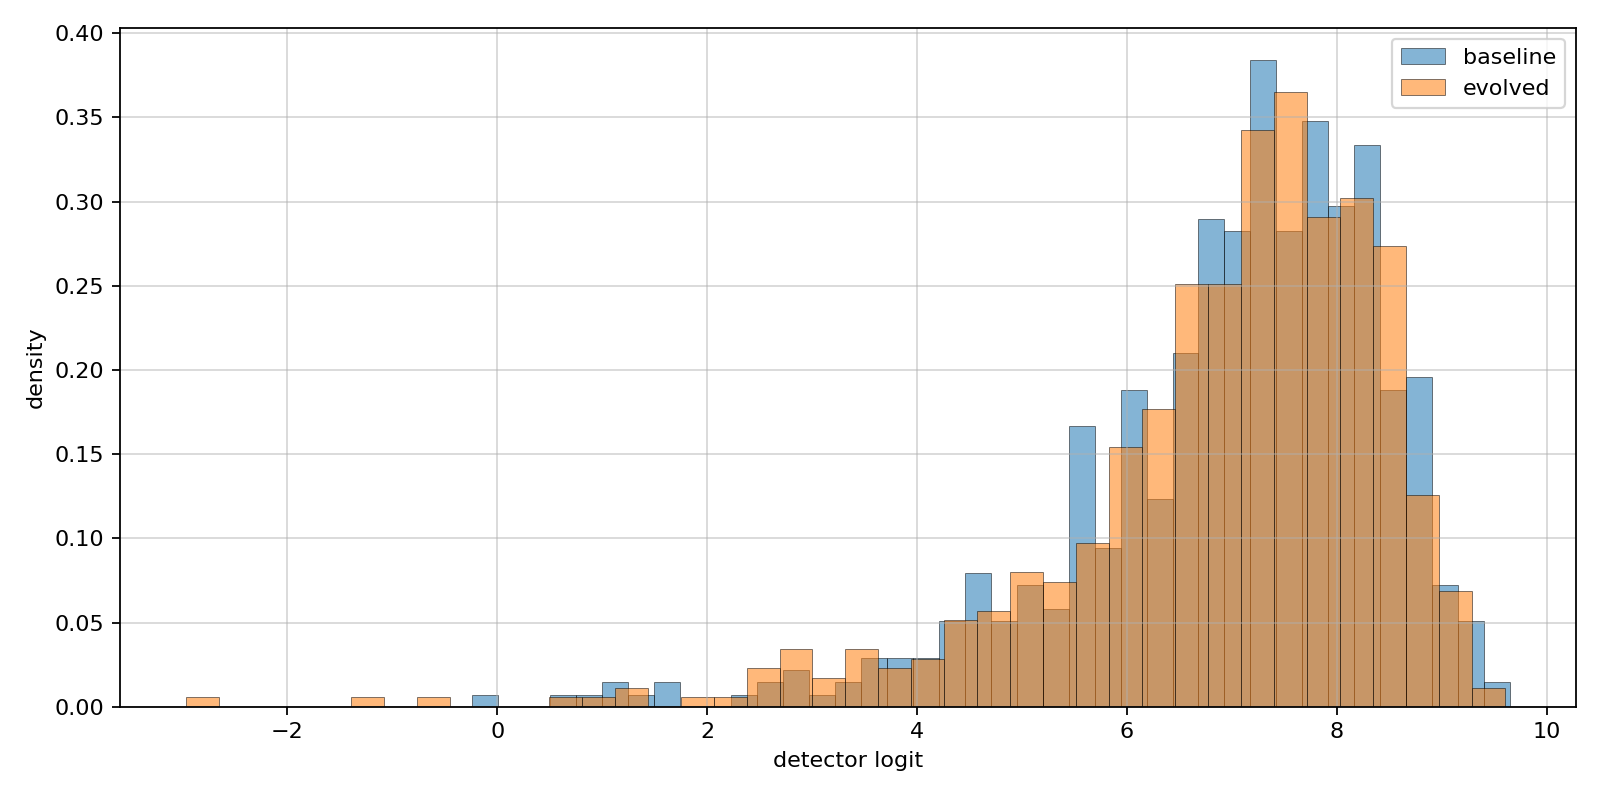
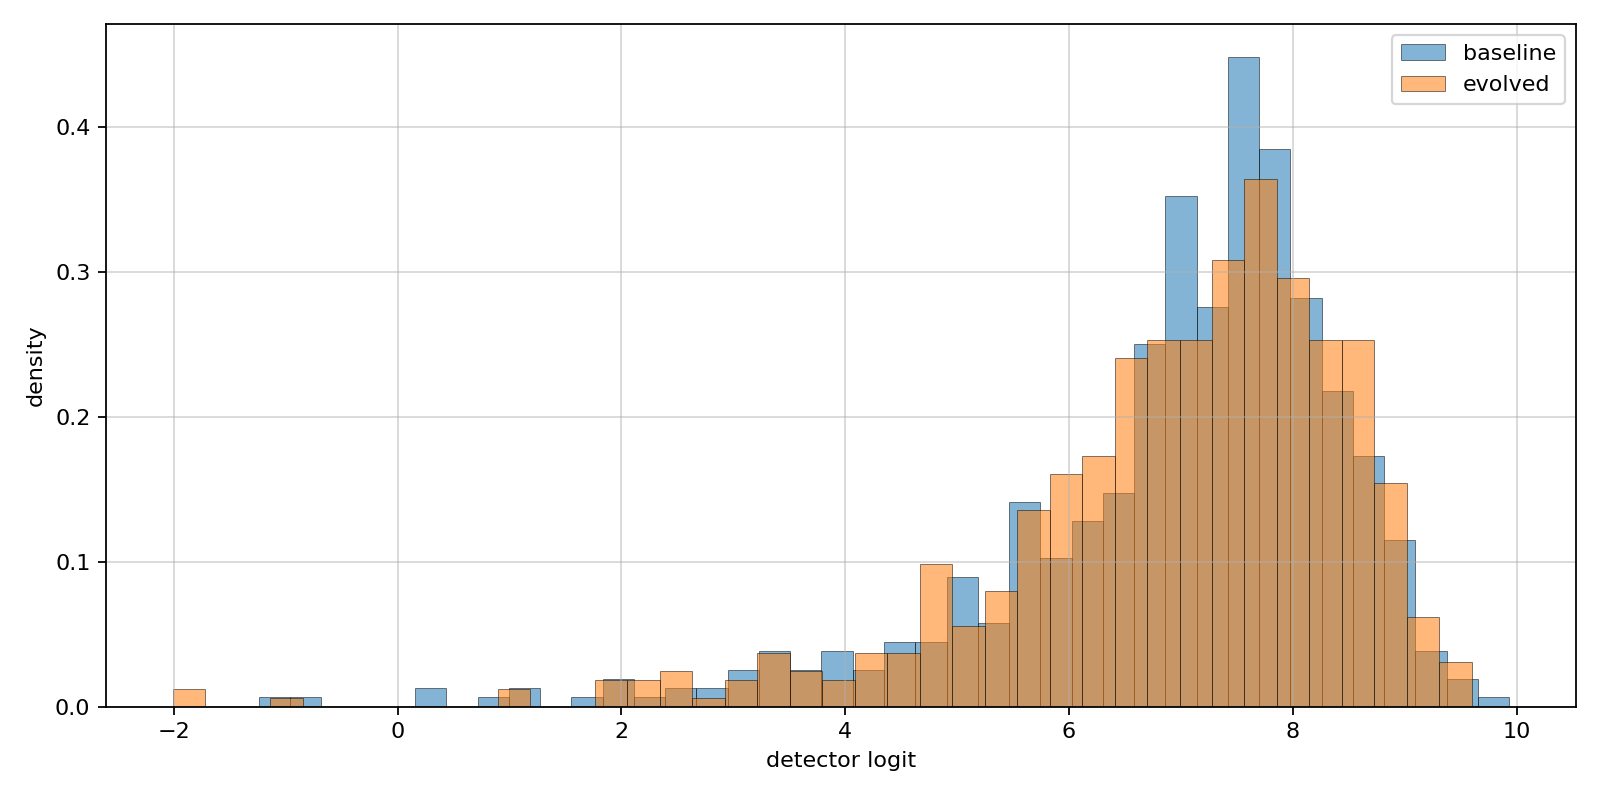
Document 2790-sample evaluation results and significance tests in README.

diff --git a/README.md b/README.md
@@ -190,27 +190,31 @@ Significance output: `results/significance_tests.json`
 
 ## Results
 
-Reported metrics refer to $558 \times 5 = 2790$ samples per stage after `run_baseline_eval.py` and `run_final_eval.py`.
+Corpus evaluation on RTX 5090: `prompts/evaluation_no_ai.txt` versus `results/experiment/best_prompt_evolved.txt`, $558 \times 5 = 2790$ detector scores per stage. OpenEvolve on 250 topics reached $R = -6.642$ on the search set, 200 iterations in `results/experiment/evolution_summary.json`.
 
-| Stage | $n$ samples | $\bar{\ell}$ | $\sigma$ | Human rate | $n$ human |
-| --- | ---: | ---: | ---: | ---: | ---: |
-| Baseline | 2790 | — | — | — | — |
-| Evolved | 2790 | — | — | — | — |
+| Stage | $n$ | $\bar{\ell}$ | $\sigma$ | median | $n$ human | Human rate |
+| --- | ---: | ---: | ---: | ---: | ---: | ---: |
+| Evaluation baseline | 2790 | 6.939 | 1.600 | 7.315 | 10 | 0.36% |
+| Evolved | 2790 | 6.941 | 1.625 | 7.277 | 15 | 0.54% |
+
+$\Delta\bar{\ell} = +0.002$ between stages. The evolved prompt does not lower the mean logit on the full corpus under the neutral evaluation wording.
 
 | Test | Statistic | $p$-value |
 | --- | ---: | ---: |
-| Mann–Whitney $U$ on logits | — | — |
-| $\chi^2$ on human vs AI counts | — | — |
+| Mann–Whitney $U$ on logits | $U = 3.88 \times 10^6$ | 0.879 |
+| $\chi^2$ on human vs AI counts | 0.643 | 0.423 |
 
-Fill the table from `results/*/metrics.json` and `results/significance_tests.json` after a full rerun.
+Contingency table for classification, rows baseline then evolved, columns human then AI: $\begin{pmatrix} 10 & 2780 \\ 15 & 2775 \end{pmatrix}$. Neither test rejects the null of equal distributions at $\alpha = 0.05$.
 
 ## Analysis
 
-**Generator capacity.** Qwen2.5-0.5B-Instruct is a small instruction model with limited lexical range. Five greedy samples per topic estimate detector scores with lower variance than a single draw.
+**Generator capacity.** Qwen2.5-0.5B-Instruct is a small model. Greedy decoding with up to 300 new tokens yields repetitive academic Spanish. A long rubric in the evolved prompt mostly exceeds what 0.5B parameters can enforce in the surface text.
 
-**Detector bias.** Oculus logits on Qwen essays are skewed toward large positive values. Human rate stays near zero unless the distribution shifts across the logit $0$ threshold.
+**Detector bias.** Logits concentrate between $4$ and $10$ with median near $7.3$. Only 25 of $5580$ pooled scores fall below the logit $0$ threshold. Oculus behaves as a near-saturated AI detector on this generator regardless of prompt family.
 
-**Significance.** Mann–Whitney compares the full logit samples from baseline and evolved prompts. The $\chi^2$ test compares aggregate human classification rates over $2790$ binary outcomes per stage. Report both $p$-values when interpreting a rerun.
+**Evolution versus neutral evaluation.** Search used `prompts/initial_prompt.txt` with an explicit anti-AI line. Corpus scoring deliberately removed that line so baseline and evolved prompts are compared on detector evasion, not on the effect of a single “write like a human” instruction. Under that design, evolution did not produce a statistically significant shift in logits or human rate on 2790 samples per arm.
+
+**Interpretation.** The best prompt on 250 topics does not generalise to 558 topics with five stochastic repeats. Reported gains on the search set are within noise on the holdout corpus. A larger generator, domain calibration of Oculus, or decoding stochasticity are more plausible levers than further rubric growth in the system prompt.
 
 ## Logit distributions
 